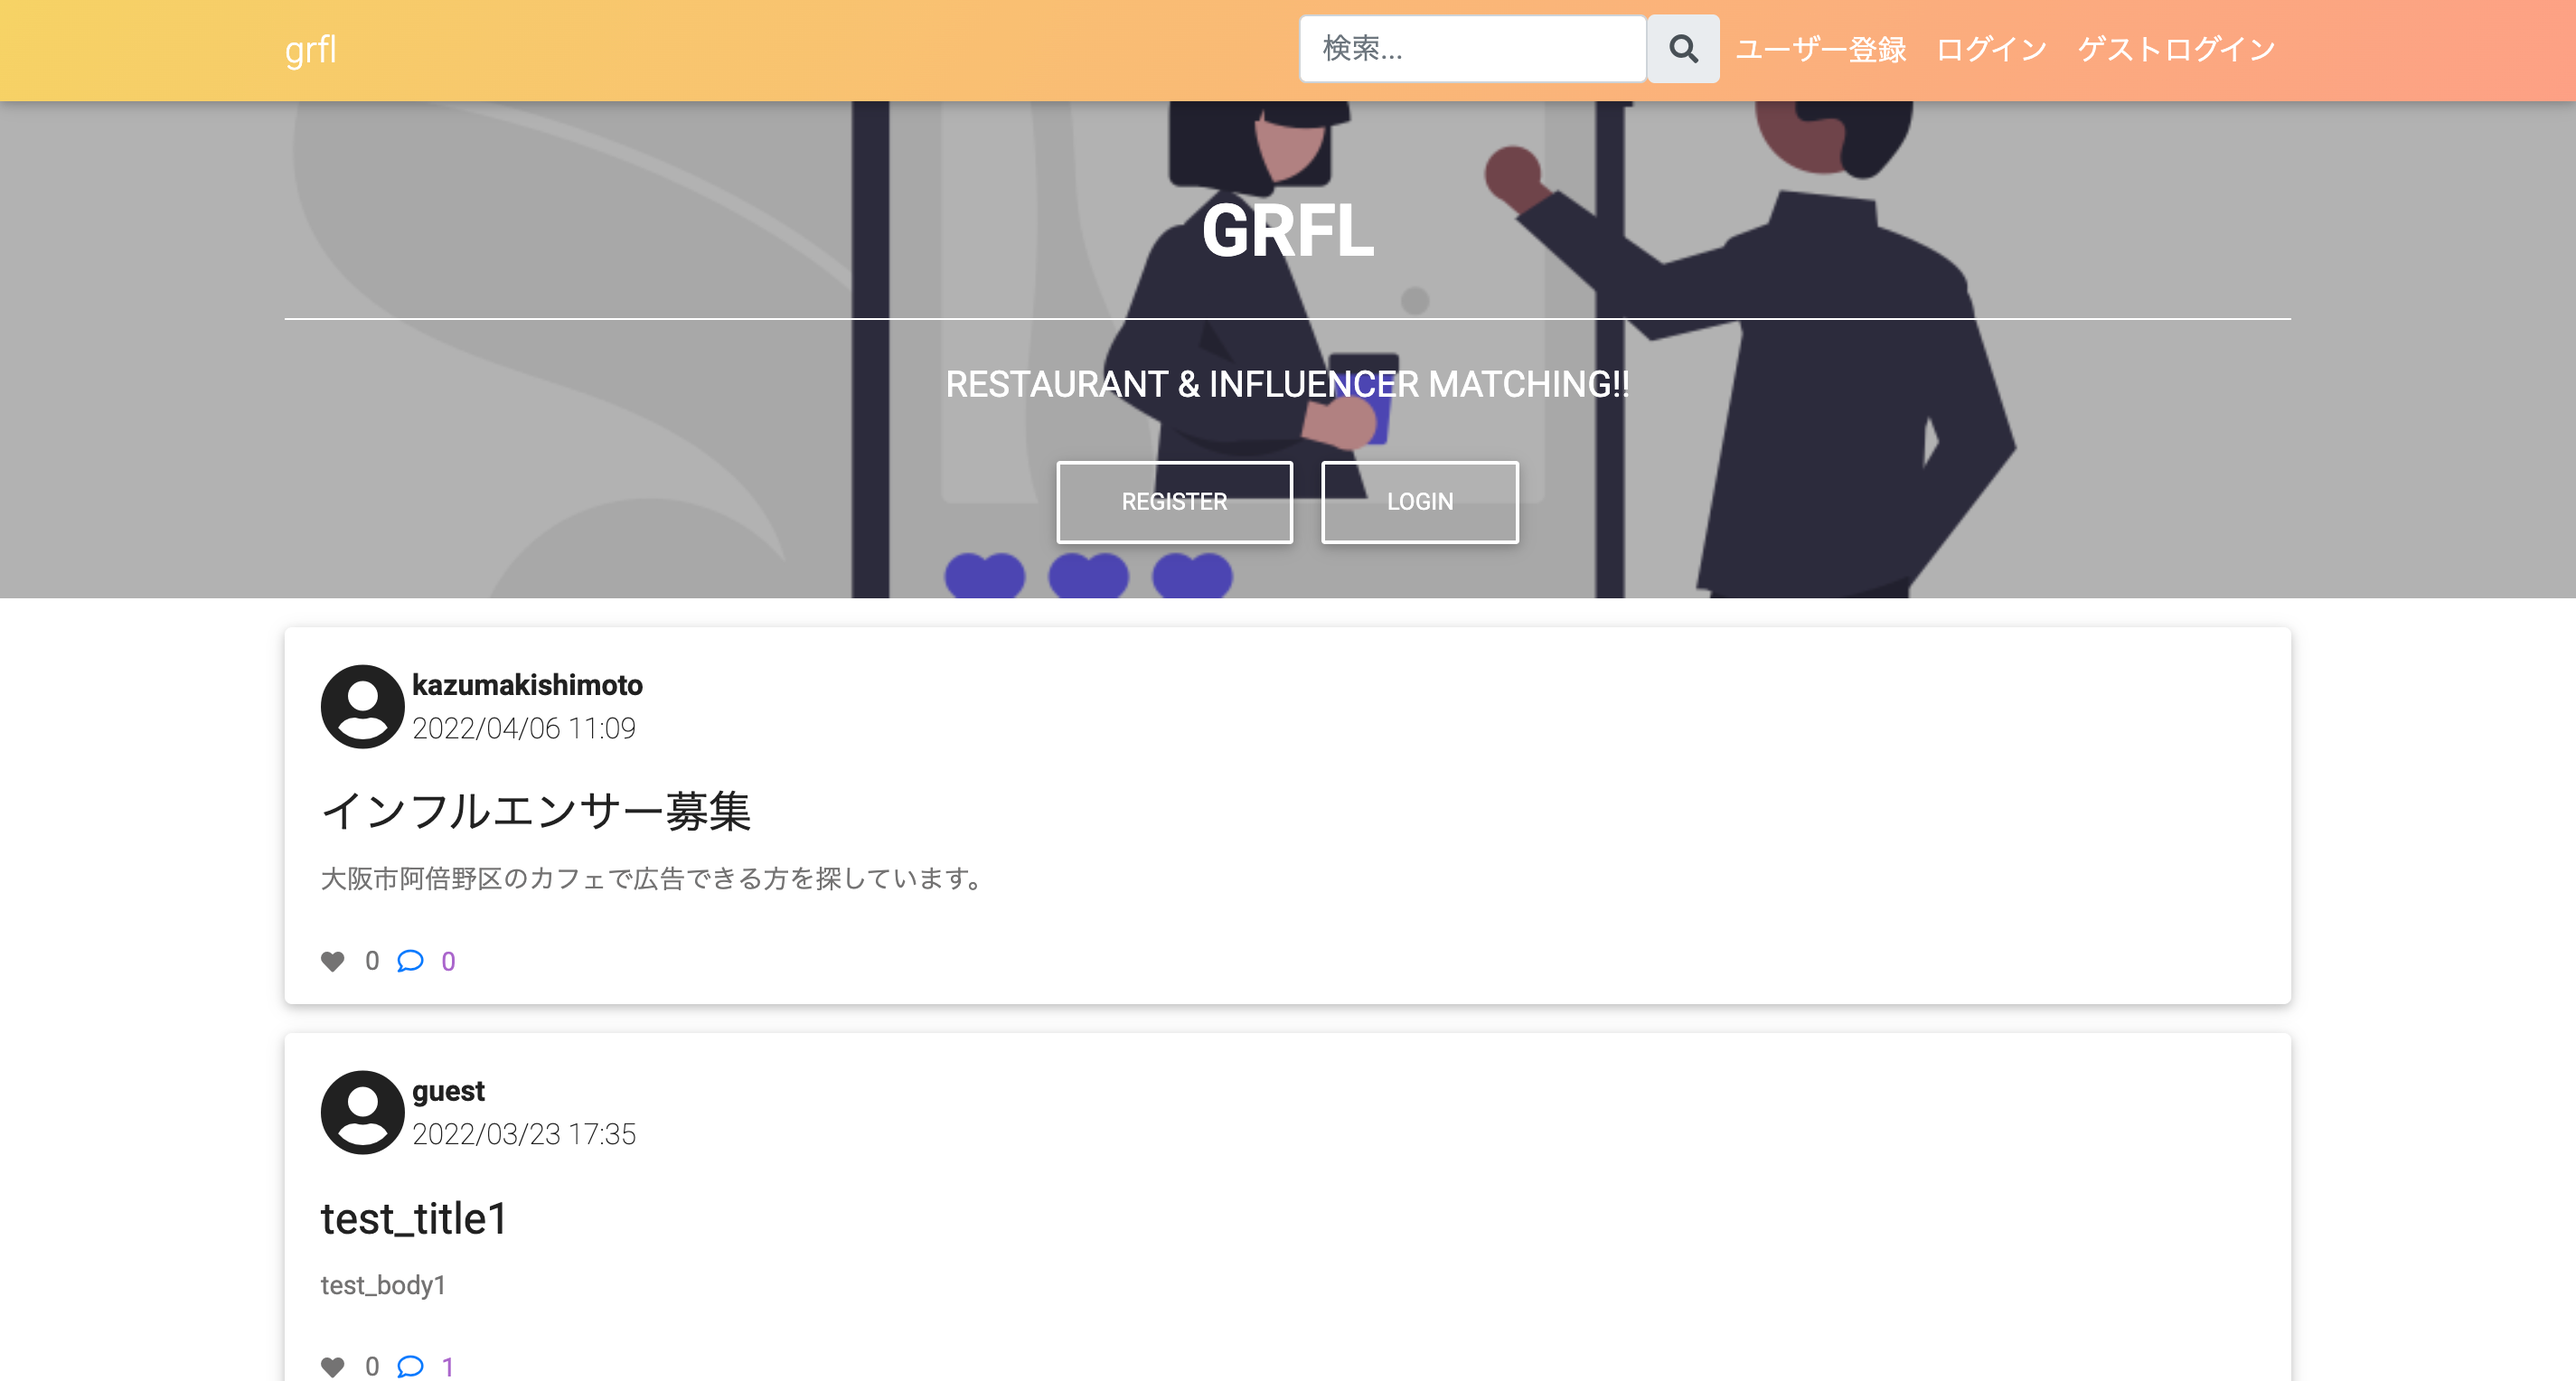
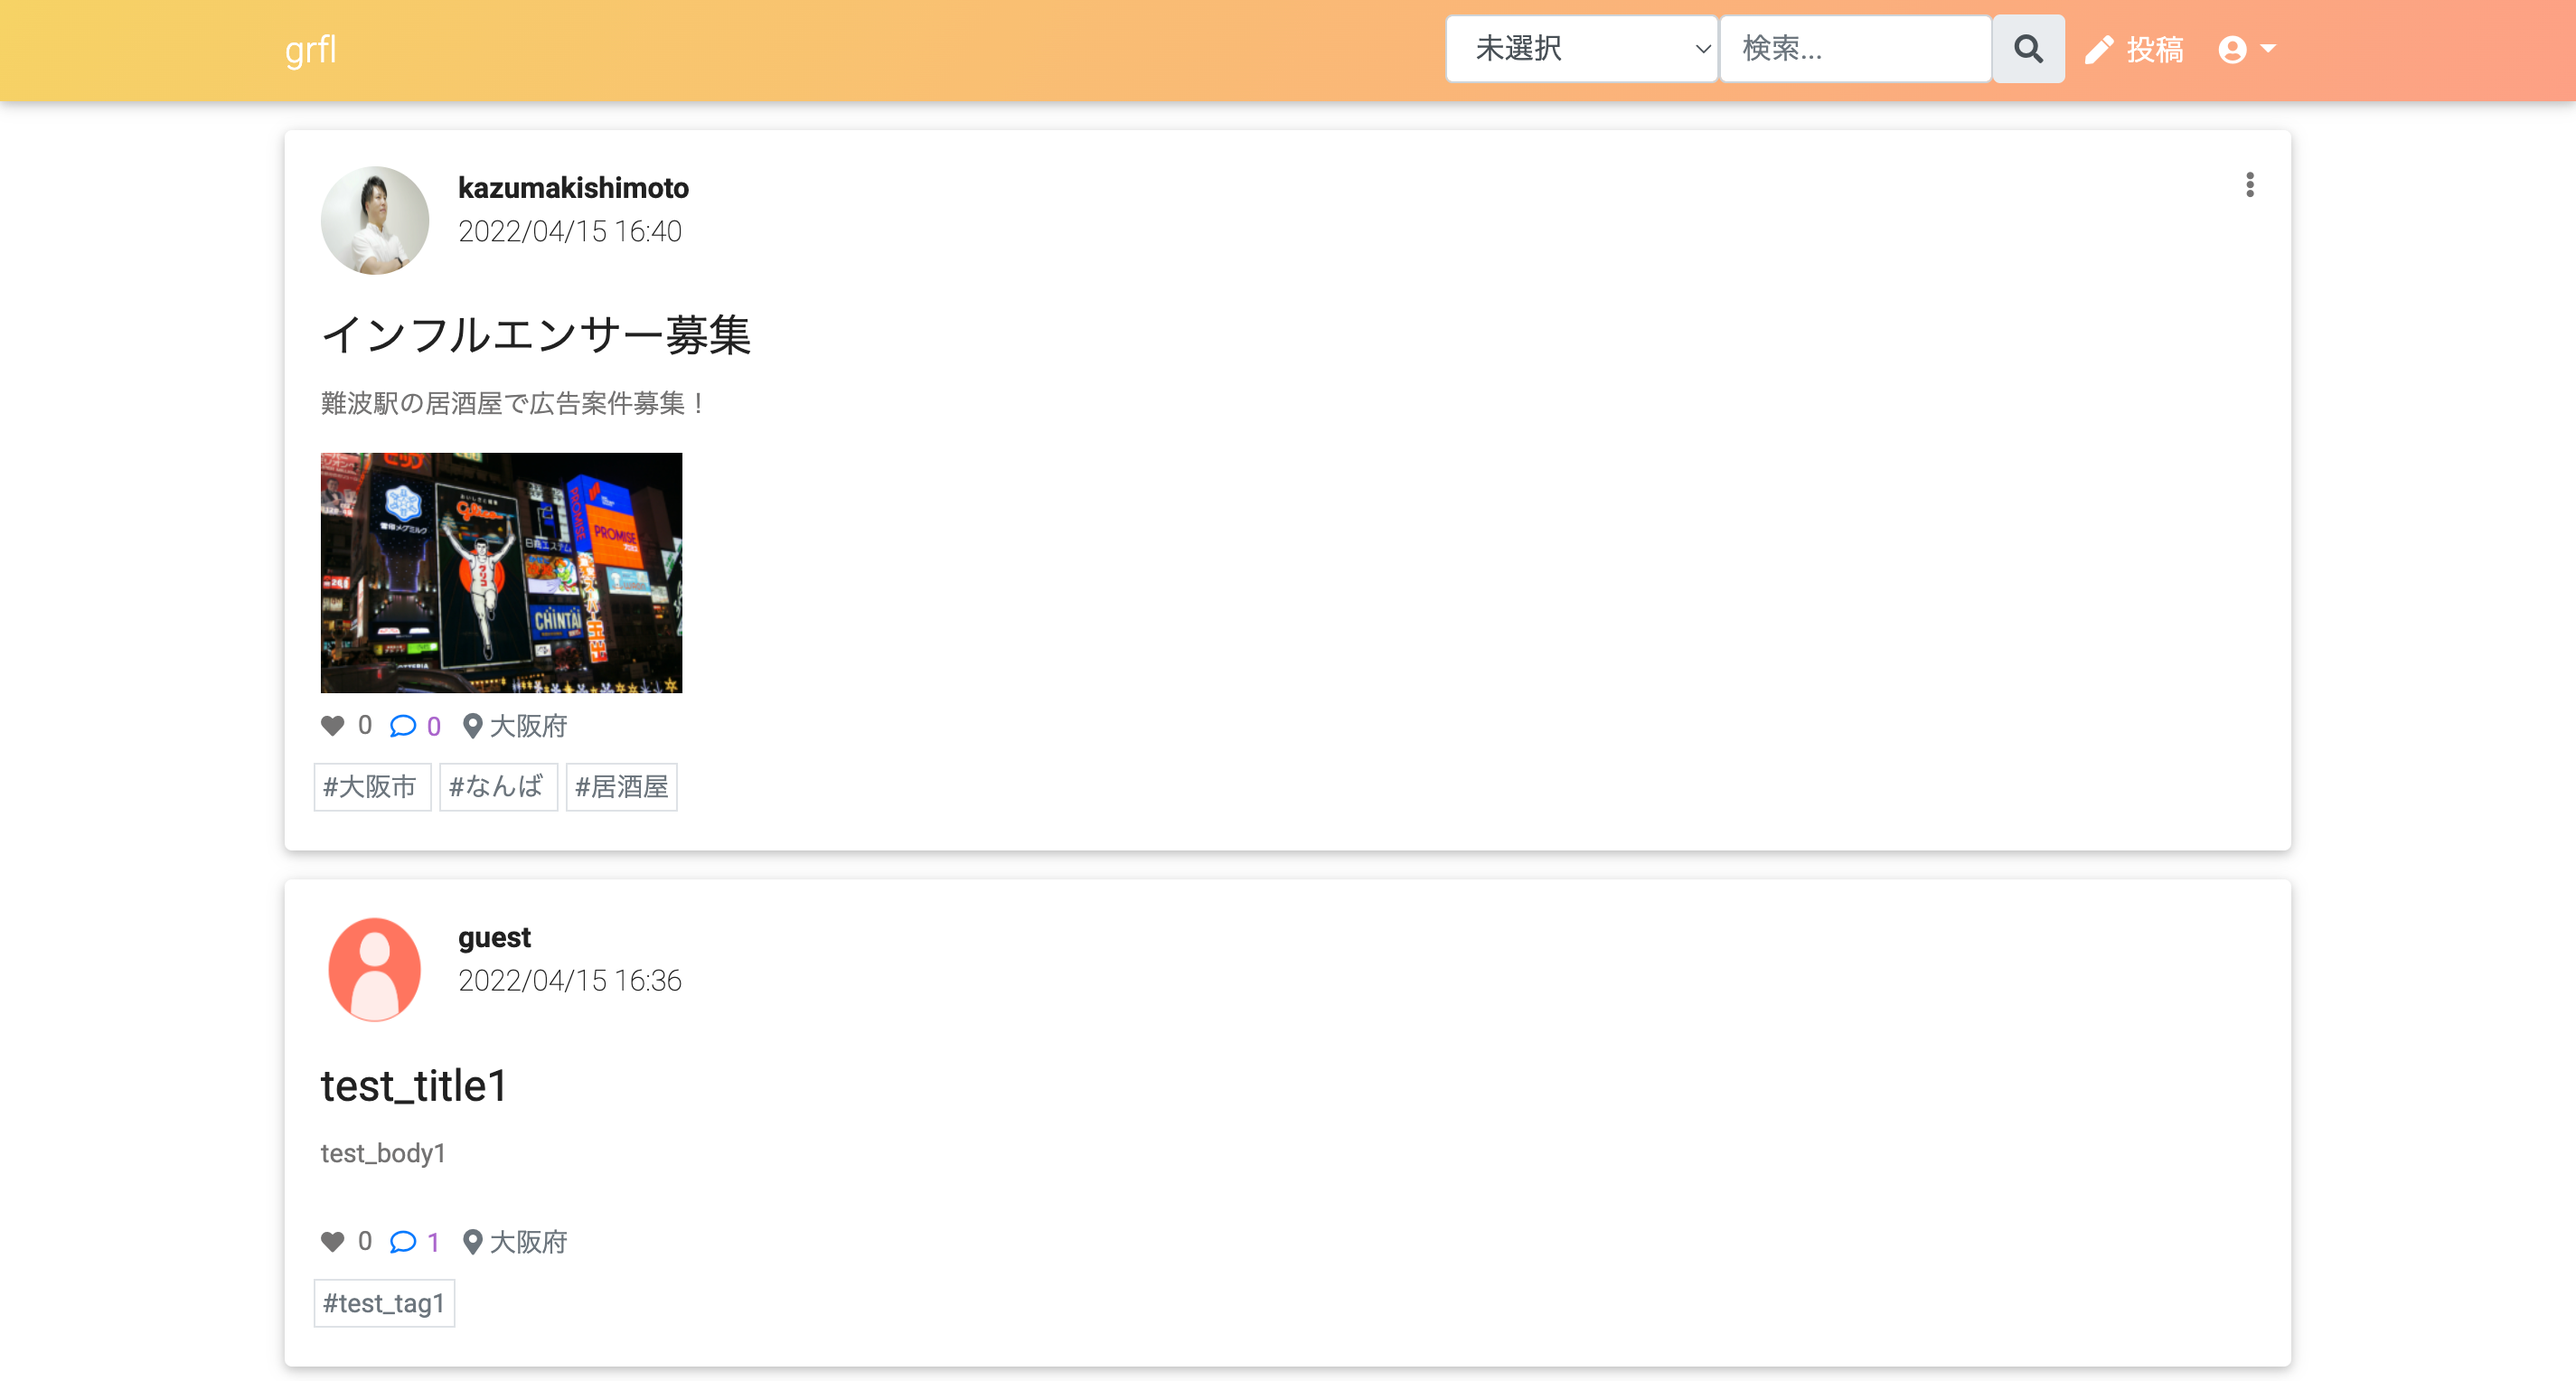
add image #50

diff --git a/README.md b/README.md
@@ -20,7 +20,7 @@
 
 ## 使用画面のイメージ
 
-(画像)
+![demo](https://user-images.githubusercontent.com/68370181/163667709-389bd6f5-90a6-42be-a396-04776d597644.png)
 
 
 # 2.使用技術
